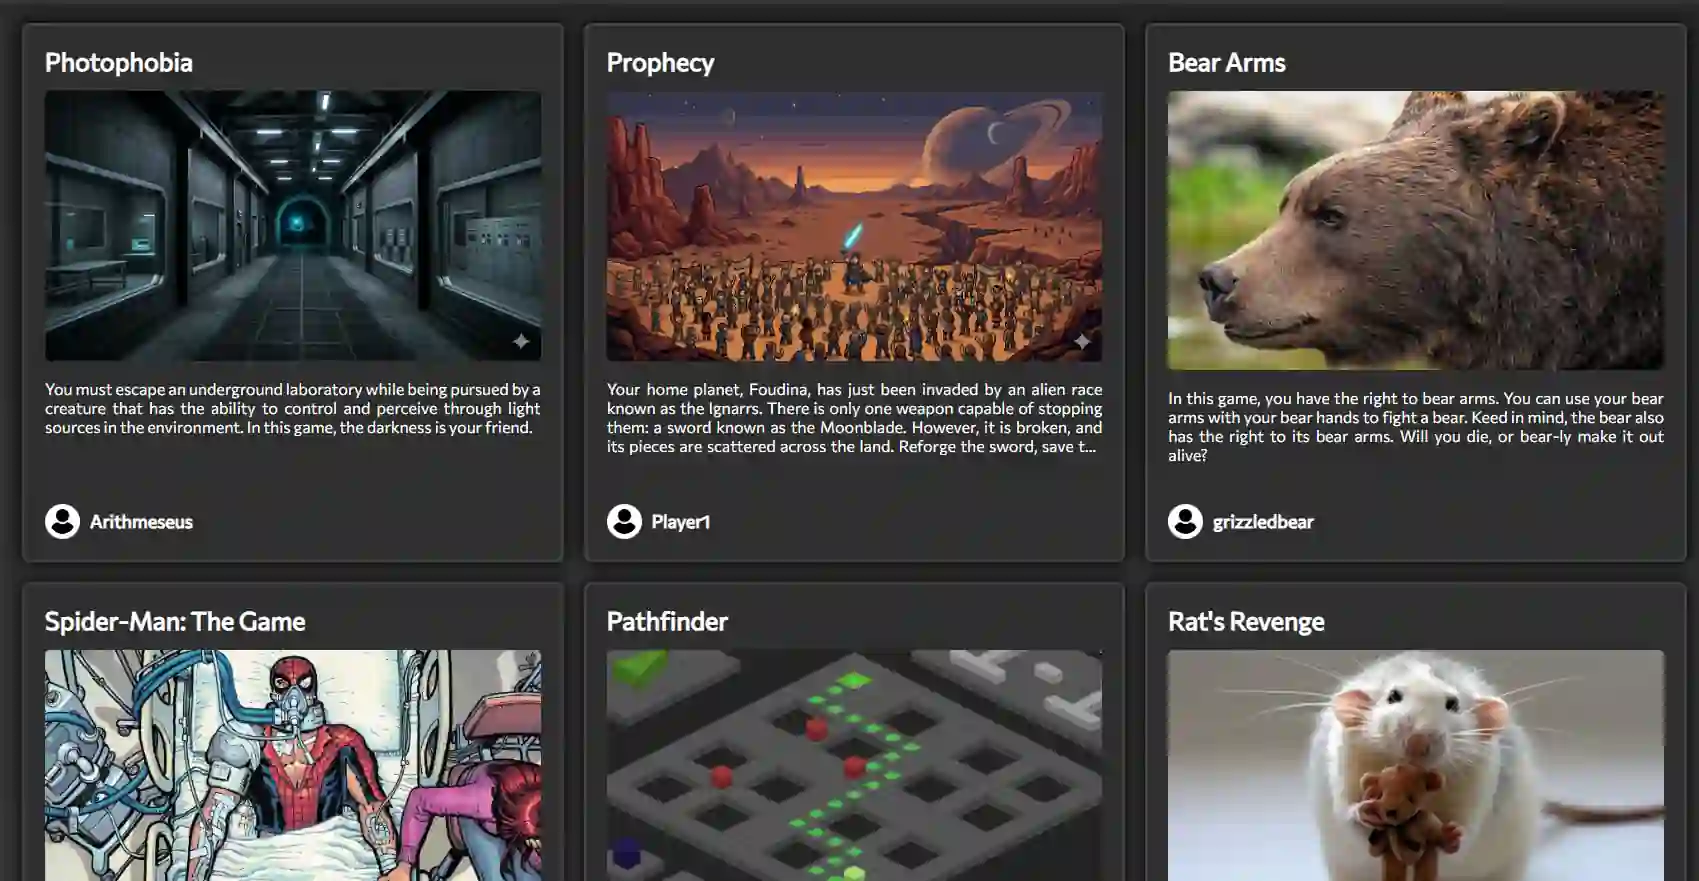
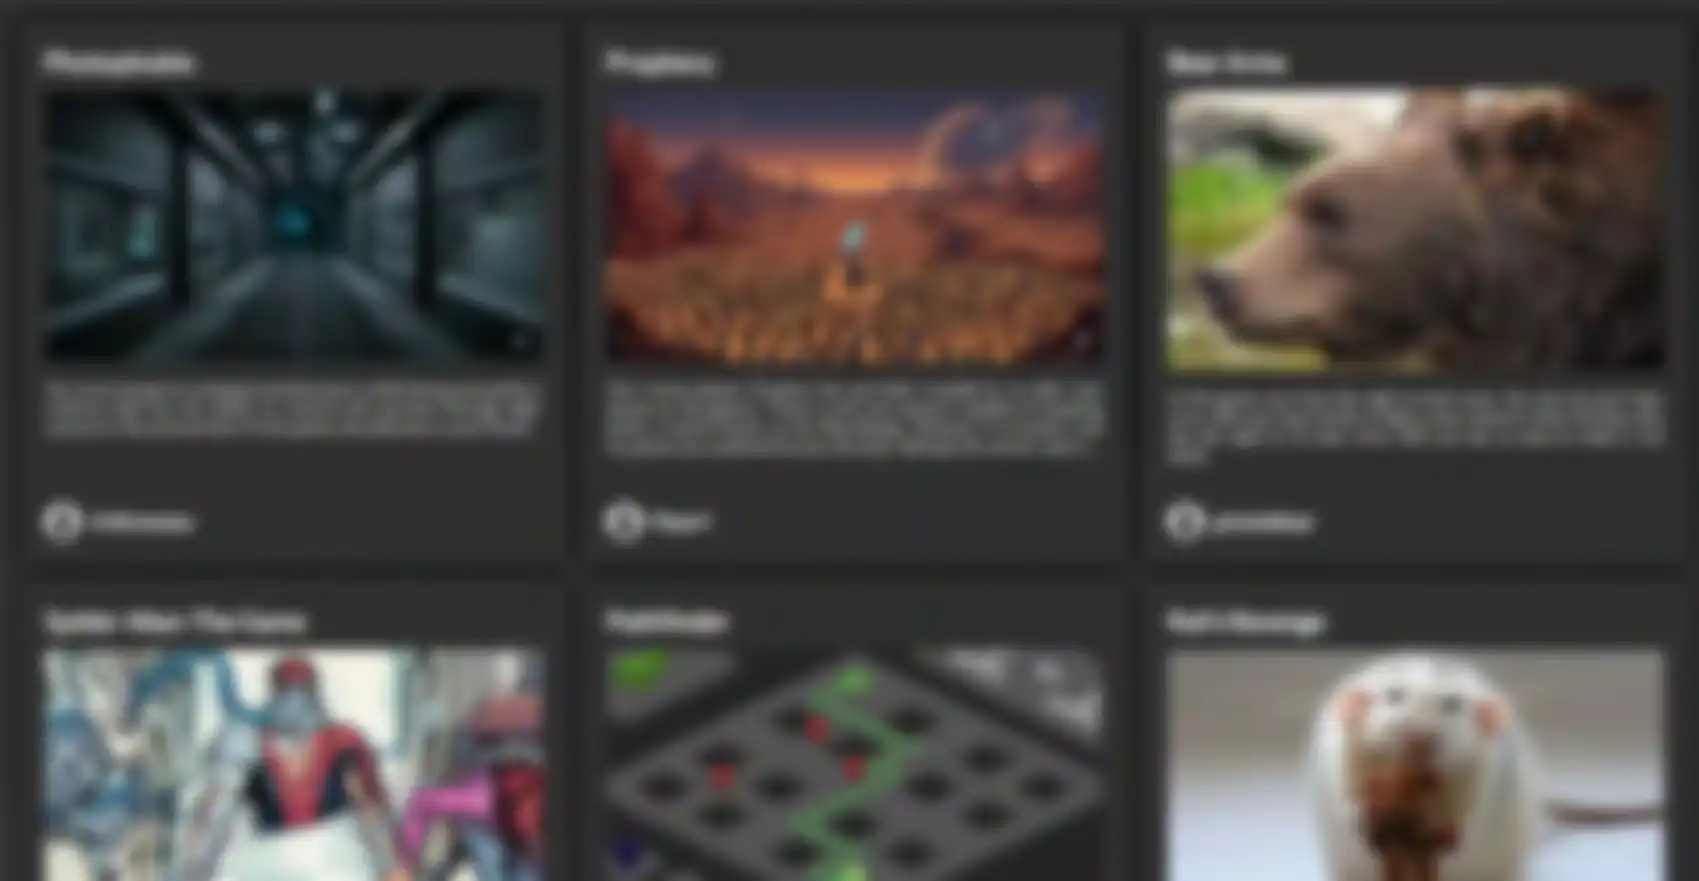
update backgrounds

diff --git a/style.css b/style.css
@@ -83,7 +83,6 @@ a {
           rgba(63, 63, 63, 0.9) 0%,
           rgba(80, 220, 255, 0) 40%);
 
-  filter: blur(50px);
   opacity: 0.95;
   will-change: transform;
 }
@@ -327,7 +326,6 @@ a {
           rgba(83, 143, 255, 0.9) 80%,
           rgba(190, 40, 255, 0) 40%);
 
-  filter: blur(50px);
   opacity: 0.95;
 }
 .project-background.constellation {
@@ -335,15 +333,13 @@ a {
   background-size: cover;
   background-position: center;
   background-repeat: no-repeat;
-  filter: blur(4px);
-  opacity: 0.3;
+  opacity: 0.4;
 }
 .project-background.gamedevblog {
   background: url('assets/backgrounds/gamedevblog.webp');
   background-size: cover;
   background-position: center;
   background-repeat: no-repeat;
-  filter: blur(4px);
   opacity: 0.3;
 }
 .project-background.guessphrase {
@@ -351,7 +347,6 @@ a {
   background-size: cover;
   background-position: center;
   background-repeat: no-repeat;
-  filter: blur(6px);
   opacity: 0.4;
 }
 .project-background.webbedwords {
@@ -359,7 +354,6 @@ a {
   background-size: cover;
   background-position: center;
   background-repeat: no-repeat;
-  filter: blur(6px);
   opacity: 0.2;
 }
 
@@ -620,7 +614,6 @@ svg:active {
         radial-gradient(circle at 60% 70%,
             rgba(63, 63, 63, 0.9) 0%,
             rgba(80, 220, 255, 0) 45%);
-    filter: none;
   }
 
   .satellite {
